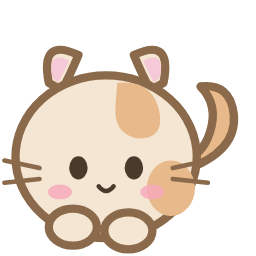
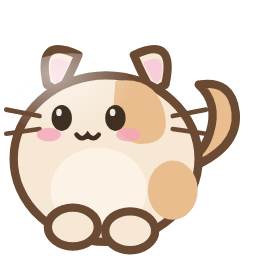
v1.3.0: visual polish pass + fix burger menu visibility
- mascot.js: added a soft belly highlight, a subtle radial head-shine
  gradient, and small white sparkle dots in her eyes, for a rounder,
  plusher, more expressive look. Deepened the outline color from #8a6a4a
  to #6b4a34 across the whole sprite (body + all props) for better
  contrast. Same original design otherwise -- cream/caramel calico, no
  stripes, solid tail. Eye-open elements changed from plain ellipses to
  <g> groups (pupil + sparkle) so the blink animation still applies
  correctly to both together.
- icon-art.html / icon-256.png / icon.png: regenerated to match the
  updated design for consistency across app icon, tray icon, taskbar.
- pet.html: burger button went from opacity:0.55 + translucent
  background (essentially invisible against busy wallpapers) to a solid
  92%-alpha background with a visible border and drop shadow, so it's
  easy to spot regardless of what's behind the overlay.
- Verified via a full 23-state render grid (idle through birthday) with
  error-catching per state -- no rendering errors, all states render
  correctly with the new eye/body structure.

diff --git a/mascot.js b/mascot.js
@@ -1,52 +1,69 @@
 // mascot.js — Mochi, an original animated desktop cat.
 // Pure inline SVG + CSS keyframes (mascot.css). No raster images, no network
-// calls, fully offline. Used identically by widget.html / walker.html / buddy.html.
+// calls, fully offline. Used by pet.html.
 
 const MOCHI_SVG = `
 <svg class="mochi-sprite" viewBox="0 0 320 280" xmlns="http://www.w3.org/2000/svg">
+  <defs>
+    <radialGradient id="mochi-shine" cx="35%" cy="25%" r="65%">
+      <stop offset="0%" stop-color="#ffffff" stop-opacity=".55"/>
+      <stop offset="100%" stop-color="#ffffff" stop-opacity="0"/>
+    </radialGradient>
+  </defs>
+
   <g class="mochi-tail">
-    <path d="M244 190 Q300 170 296 130 Q292 96 260 100 Q280 120 270 150 Q262 176 236 182 Z"
-          fill="#e8b98a" stroke="#8a6a4a" stroke-width="6" stroke-linejoin="round"/>
+    <path d="M244 190 Q302 168 298 128 Q294 92 258 98 Q280 118 270 150 Q262 178 234 184 Z"
+          fill="#eabd8e" stroke="#6b4a34" stroke-width="7" stroke-linejoin="round"/>
   </g>
 
   <g class="mochi-body-group">
     <g class="mochi-ear l">
-      <path d="M96 96 Q86 46 128 66 Q118 90 110 104 Z" fill="#f5e6d3" stroke="#8a6a4a" stroke-width="6" stroke-linejoin="round"/>
-      <path d="M100 90 Q94 60 118 72 Q112 86 106 96 Z" fill="#f6c9d8"/>
+      <path d="M94 98 Q82 44 128 66 Q117 92 108 106 Z" fill="#f7e8d6" stroke="#6b4a34" stroke-width="7" stroke-linejoin="round"/>
+      <path d="M99 91 Q92 60 118 74 Q111 89 104 97 Z" fill="#f8cdd9"/>
     </g>
     <g class="mochi-ear r">
-      <path d="M220 96 Q230 46 188 66 Q198 90 206 104 Z" fill="#f5e6d3" stroke="#8a6a4a" stroke-width="6" stroke-linejoin="round"/>
-      <path d="M216 90 Q222 60 198 72 Q204 86 210 96 Z" fill="#f6c9d8"/>
+      <path d="M222 98 Q234 44 188 66 Q199 92 208 106 Z" fill="#f7e8d6" stroke="#6b4a34" stroke-width="7" stroke-linejoin="round"/>
+      <path d="M217 91 Q224 60 198 74 Q205 89 212 97 Z" fill="#f8cdd9"/>
     </g>
 
-    <ellipse cx="158" cy="176" rx="98" ry="88" fill="#f5e6d3" stroke="#8a6a4a" stroke-width="6"/>
-    <path d="M170 96 Q210 92 216 130 Q220 158 190 156 Q166 150 168 122 Z" fill="#e8b98a"/>
-    <ellipse cx="228" cy="210" rx="26" ry="30" fill="#e8b98a"/>
+    <ellipse cx="158" cy="178" rx="100" ry="90" fill="#f7e8d6" stroke="#6b4a34" stroke-width="7"/>
+    <path d="M168 94 Q214 88 222 132 Q227 164 192 162 Q164 155 166 120 Z" fill="#eabd8e"/>
+    <ellipse cx="230" cy="212" rx="27" ry="32" fill="#eabd8e"/>
 
-    <g class="mochi-leg l"><ellipse cx="122" cy="252" rx="26" ry="20" fill="#f5e6d3" stroke="#8a6a4a" stroke-width="6"/></g>
-    <g class="mochi-leg r"><ellipse cx="182" cy="256" rx="26" ry="20" fill="#f5e6d3" stroke="#8a6a4a" stroke-width="6"/></g>
+    <!-- soft belly highlight + head shine, for a plush, rounded feel -->
+    <ellipse cx="150" cy="212" rx="52" ry="46" fill="#fff8ee" opacity=".65"/>
+    <ellipse cx="120" cy="110" rx="70" ry="46" fill="url(#mochi-shine)"/>
 
-    <g stroke="#8a6a4a" stroke-width="3.5" stroke-linecap="round">
-      <line x1="86" y1="188" x2="48" y2="180"/>
-      <line x1="86" y1="200" x2="48" y2="204"/>
-      <line x1="230" y1="188" x2="268" y2="180"/>
-      <line x1="230" y1="200" x2="268" y2="204"/>
+    <g class="mochi-leg l"><ellipse cx="122" cy="252" rx="27" ry="21" fill="#f7e8d6" stroke="#6b4a34" stroke-width="7"/></g>
+    <g class="mochi-leg r"><ellipse cx="184" cy="256" rx="27" ry="21" fill="#f7e8d6" stroke="#6b4a34" stroke-width="7"/></g>
+
+    <g stroke="#6b4a34" stroke-width="4" stroke-linecap="round">
+      <line x1="86" y1="132" x2="50" y2="125"/>
+      <line x1="86" y1="146" x2="50" y2="151"/>
+      <line x1="230" y1="132" x2="266" y2="125"/>
+      <line x1="230" y1="146" x2="266" y2="151"/>
     </g>
 
-    <ellipse class="mochi-eye-open l" cx="128" cy="188" rx="10" ry="12.5" fill="#4a3a2c"/>
-    <ellipse class="mochi-eye-open r" cx="188" cy="188" rx="10" ry="12.5" fill="#4a3a2c"/>
-    <path class="mochi-eye-closed l" d="M116 189 q12 10 24 0" stroke="#4a3a2c" stroke-width="4" stroke-linecap="round" fill="none"/>
-    <path class="mochi-eye-closed r" d="M176 189 q12 10 24 0" stroke="#4a3a2c" stroke-width="4" stroke-linecap="round" fill="none"/>
-    <path class="mochi-eye-half l" d="M118 186 q10 6 20 0" stroke="#4a3a2c" stroke-width="4" stroke-linecap="round" fill="none"/>
-    <path class="mochi-eye-half r" d="M178 186 q10 6 20 0" stroke="#4a3a2c" stroke-width="4" stroke-linecap="round" fill="none"/>
+    <g class="mochi-eye-open l">
+      <ellipse cx="110" cy="134" rx="11" ry="14" fill="#3f2f22"/>
+      <ellipse cx="107" cy="128" rx="3" ry="4" fill="#fff" opacity=".9"/>
+    </g>
+    <g class="mochi-eye-open r">
+      <ellipse cx="168" cy="134" rx="11" ry="14" fill="#3f2f22"/>
+      <ellipse cx="165" cy="128" rx="3" ry="4" fill="#fff" opacity=".9"/>
+    </g>
+    <path class="mochi-eye-closed l" d="M98 135 q12 10 24 0" stroke="#3f2f22" stroke-width="4.5" stroke-linecap="round" fill="none"/>
+    <path class="mochi-eye-closed r" d="M156 135 q12 10 24 0" stroke="#3f2f22" stroke-width="4.5" stroke-linecap="round" fill="none"/>
+    <path class="mochi-eye-half l" d="M100 132 q10 6 20 0" stroke="#3f2f22" stroke-width="4.5" stroke-linecap="round" fill="none"/>
+    <path class="mochi-eye-half r" d="M158 132 q10 6 20 0" stroke="#3f2f22" stroke-width="4.5" stroke-linecap="round" fill="none"/>
 
-    <path class="mochi-mouth-idle" d="M150 208 Q158 218 166 208" stroke="#4a3a2c" stroke-width="4.5" stroke-linecap="round" fill="none"/>
-    <ellipse class="mochi-mouth-eat" cx="158" cy="212" rx="9" ry="11" fill="#4a3a2c"/>
-    <ellipse class="mochi-mouth-laugh" cx="158" cy="212" rx="16" ry="13" fill="#4a3a2c"/>
-    <path class="mochi-mouth-laugh" d="M148 210 Q158 220 168 210" stroke="#f5e6d3" stroke-width="3" stroke-linecap="round" fill="none"/>
+    <path class="mochi-mouth-idle" d="M126 152 q6 8 12 0 q6 8 12 0" stroke="#3f2f22" stroke-width="5" stroke-linecap="round" fill="none"/>
+    <ellipse class="mochi-mouth-eat" cx="139" cy="156" rx="9" ry="11" fill="#3f2f22"/>
+    <ellipse class="mochi-mouth-laugh" cx="139" cy="156" rx="16" ry="13" fill="#3f2f22"/>
+    <path class="mochi-mouth-laugh" d="M129 154 Q139 164 149 154" stroke="#f7e8d6" stroke-width="3" stroke-linecap="round" fill="none"/>
 
-    <ellipse class="mochi-blush l" cx="108" cy="214" rx="13" ry="8" fill="#f6a8bc" opacity=".8"/>
-    <ellipse class="mochi-blush r" cx="208" cy="214" rx="13" ry="8" fill="#f6a8bc" opacity=".8"/>
+    <ellipse class="mochi-blush l" cx="96" cy="152" rx="13" ry="7.5" fill="#f4a5bc" opacity=".8"/>
+    <ellipse class="mochi-blush r" cx="182" cy="152" rx="13" ry="7.5" fill="#f4a5bc" opacity=".8"/>
   </g>
 
   <g class="mochi-stars" transform="translate(158,60)">
@@ -65,40 +82,40 @@ const MOCHI_SVG = `
   </g>
 
   <g class="mochi-headphones">
-    <path d="M94 100 Q158 40 222 100" stroke="#8a6a4a" stroke-width="8" fill="none" stroke-linecap="round"/>
-    <ellipse cx="94" cy="112" rx="16" ry="20" fill="#f7b0c6" stroke="#8a6a4a" stroke-width="4"/>
-    <ellipse cx="222" cy="112" rx="16" ry="20" fill="#f7b0c6" stroke="#8a6a4a" stroke-width="4"/>
-    <text class="mochi-note" x="250" y="70" font-size="22" fill="#8a6a4a">♪</text>
+    <path d="M94 100 Q158 40 222 100" stroke="#6b4a34" stroke-width="8" fill="none" stroke-linecap="round"/>
+    <ellipse cx="94" cy="112" rx="16" ry="20" fill="#f7b0c6" stroke="#6b4a34" stroke-width="4"/>
+    <ellipse cx="222" cy="112" rx="16" ry="20" fill="#f7b0c6" stroke="#6b4a34" stroke-width="4"/>
+    <text class="mochi-note" x="250" y="70" font-size="22" fill="#6b4a34">♪</text>
   </g>
 
   <g class="mochi-book" transform="translate(66,232)">
-    <path d="M0 0 Q22 -10 44 0 L44 24 Q22 14 0 24 Z" fill="#a9d4ff" stroke="#8a6a4a" stroke-width="3" stroke-linejoin="round"/>
-    <path d="M44 0 Q66 -10 88 0 L88 24 Q66 14 44 24 Z" fill="#f7b0c6" stroke="#8a6a4a" stroke-width="3" stroke-linejoin="round"/>
-    <path class="mochi-page" d="M44 0 Q30 -8 16 -2 L16 20 Q30 14 44 22 Z" fill="#fff9ef" stroke="#8a6a4a" stroke-width="2"/>
+    <path d="M0 0 Q22 -10 44 0 L44 24 Q22 14 0 24 Z" fill="#a9d4ff" stroke="#6b4a34" stroke-width="3" stroke-linejoin="round"/>
+    <path d="M44 0 Q66 -10 88 0 L88 24 Q66 14 44 24 Z" fill="#f7b0c6" stroke="#6b4a34" stroke-width="3" stroke-linejoin="round"/>
+    <path class="mochi-page" d="M44 0 Q30 -8 16 -2 L16 20 Q30 14 44 22 Z" fill="#fff9ef" stroke="#6b4a34" stroke-width="2"/>
   </g>
 
   <g class="mochi-easel" transform="translate(40,190)">
-    <path d="M4 74 L34 8 L64 74" stroke="#8a6a4a" stroke-width="5" fill="none" stroke-linecap="round"/>
-    <line x1="14" y1="52" x2="54" y2="52" stroke="#8a6a4a" stroke-width="5" stroke-linecap="round"/>
-    <rect x="10" y="16" width="48" height="38" rx="3" fill="#fff9ef" stroke="#8a6a4a" stroke-width="4"/>
+    <path d="M4 74 L34 8 L64 74" stroke="#6b4a34" stroke-width="5" fill="none" stroke-linecap="round"/>
+    <line x1="14" y1="52" x2="54" y2="52" stroke="#6b4a34" stroke-width="5" stroke-linecap="round"/>
+    <rect x="10" y="16" width="48" height="38" rx="3" fill="#fff9ef" stroke="#6b4a34" stroke-width="4"/>
     <circle class="mochi-dab" cx="26" cy="32" r="6" fill="#f7b0c6"/>
     <circle class="mochi-dab" cx="42" cy="40" r="5" fill="#a9d4ff"/>
   </g>
 
   <g class="mochi-scarf" transform="translate(108,190)">
-    <path d="M0 0 Q50 20 100 0 L100 16 Q50 36 0 16 Z" fill="#f7b0c6" stroke="#8a6a4a" stroke-width="4" stroke-linejoin="round"/>
-    <rect x="60" y="12" width="16" height="34" rx="4" fill="#f7b0c6" stroke="#8a6a4a" stroke-width="4"/>
+    <path d="M0 0 Q50 20 100 0 L100 16 Q50 36 0 16 Z" fill="#f7b0c6" stroke="#6b4a34" stroke-width="4" stroke-linejoin="round"/>
+    <rect x="60" y="12" width="16" height="34" rx="4" fill="#f7b0c6" stroke="#6b4a34" stroke-width="4"/>
   </g>
 
   <g class="mochi-shades" transform="translate(158,188)">
-    <rect x="-34" y="-11" width="26" height="20" rx="7" fill="#4a3a2c" stroke="#4a3a2c"/>
-    <rect x="8" y="-11" width="26" height="20" rx="7" fill="#4a3a2c" stroke="#4a3a2c"/>
-    <line x1="-8" y1="-4" x2="8" y2="-4" stroke="#4a3a2c" stroke-width="3"/>
+    <rect x="-34" y="-11" width="26" height="20" rx="7" fill="#3f2f22" stroke="#3f2f22"/>
+    <rect x="8" y="-11" width="26" height="20" rx="7" fill="#3f2f22" stroke="#3f2f22"/>
+    <line x1="-8" y1="-4" x2="8" y2="-4" stroke="#3f2f22" stroke-width="3"/>
   </g>
 
   <g class="mochi-partyhat" transform="translate(158,44)">
-    <path d="M-20 40 L0 -26 L20 40 Z" fill="#a9d4ff" stroke="#8a6a4a" stroke-width="4" stroke-linejoin="round"/>
-    <circle cx="0" cy="-26" r="6" fill="#f7b0c6" stroke="#8a6a4a" stroke-width="3"/>
+    <path d="M-20 40 L0 -26 L20 40 Z" fill="#a9d4ff" stroke="#6b4a34" stroke-width="4" stroke-linejoin="round"/>
+    <circle cx="0" cy="-26" r="6" fill="#f7b0c6" stroke="#6b4a34" stroke-width="3"/>
     <circle cx="-8" cy="14" r="4" fill="#fff9ef"/><circle cx="6" cy="0" r="4" fill="#f7b0c6"/>
   </g>
   <g class="mochi-confetti">
@@ -108,31 +125,31 @@ const MOCHI_SVG = `
   </g>
 
   <g class="mochi-balloons" transform="translate(158,60)">
-    <line x1="-4" y1="18" x2="-30" y2="70" stroke="#8a6a4a" stroke-width="2.5"/>
-    <line x1="4" y1="18" x2="6" y2="72" stroke="#8a6a4a" stroke-width="2.5"/>
-    <line x1="12" y1="18" x2="34" y2="70" stroke="#8a6a4a" stroke-width="2.5"/>
-    <g class="mochi-balloon b1"><ellipse cx="-30" cy="0" rx="20" ry="24" fill="#f7b0c6" stroke="#8a6a4a" stroke-width="3"/></g>
-    <g class="mochi-balloon b2"><ellipse cx="6" cy="-16" rx="22" ry="26" fill="#a9d4ff" stroke="#8a6a4a" stroke-width="3"/></g>
-    <g class="mochi-balloon b3"><ellipse cx="34" cy="0" rx="20" ry="24" fill="#c9f0c0" stroke="#8a6a4a" stroke-width="3"/></g>
+    <line x1="-4" y1="18" x2="-30" y2="70" stroke="#6b4a34" stroke-width="2.5"/>
+    <line x1="4" y1="18" x2="6" y2="72" stroke="#6b4a34" stroke-width="2.5"/>
+    <line x1="12" y1="18" x2="34" y2="70" stroke="#6b4a34" stroke-width="2.5"/>
+    <g class="mochi-balloon b1"><ellipse cx="-30" cy="0" rx="20" ry="24" fill="#f7b0c6" stroke="#6b4a34" stroke-width="3"/></g>
+    <g class="mochi-balloon b2"><ellipse cx="6" cy="-16" rx="22" ry="26" fill="#a9d4ff" stroke="#6b4a34" stroke-width="3"/></g>
+    <g class="mochi-balloon b3"><ellipse cx="34" cy="0" rx="20" ry="24" fill="#c9f0c0" stroke="#6b4a34" stroke-width="3"/></g>
   </g>
 
   <g class="mochi-toy" transform="translate(46,236)">
     <g class="mochi-toy-inner">
-      <circle r="16" fill="#f7b0c6" stroke="#8a6a4a" stroke-width="3"/>
-      <path d="M-11 -4 Q0 6 11 -4" stroke="#8a6a4a" stroke-width="2" fill="none"/>
-      <path d="M-9 4 Q0 12 9 4" stroke="#8a6a4a" stroke-width="2" fill="none"/>
+      <circle r="16" fill="#f7b0c6" stroke="#6b4a34" stroke-width="3"/>
+      <path d="M-11 -4 Q0 6 11 -4" stroke="#6b4a34" stroke-width="2" fill="none"/>
+      <path d="M-9 4 Q0 12 9 4" stroke="#6b4a34" stroke-width="2" fill="none"/>
     </g>
   </g>
 
   <g class="mochi-bowl" transform="translate(118,238)">
     <g class="mochi-bowl-inner">
       <ellipse cx="40" cy="18" rx="34" ry="10" fill="#c98a4a"/>
-      <path d="M6 18 Q6 40 40 40 Q74 40 74 18 Z" fill="#e8a35f" stroke="#8a6a4a" stroke-width="3"/>
-      <circle cx="30" cy="14" r="5" fill="#e8b98a"/><circle cx="46" cy="12" r="5" fill="#f5e6d3"/><circle cx="40" cy="20" r="5" fill="#e8b98a"/>
+      <path d="M6 18 Q6 40 40 40 Q74 40 74 18 Z" fill="#e8a35f" stroke="#6b4a34" stroke-width="3"/>
+      <circle cx="30" cy="14" r="5" fill="#eabd8e"/><circle cx="46" cy="12" r="5" fill="#f7e8d6"/><circle cx="40" cy="20" r="5" fill="#eabd8e"/>
     </g>
   </g>
 
-  <g class="mochi-zzz" fill="#8a6a4a" font-family="Comic Sans MS, cursive" font-weight="700">
+  <g class="mochi-zzz" fill="#6b4a34" font-family="Comic Sans MS, cursive" font-weight="700">
     <text class="z1" x="212" y="118" font-size="20">z</text>
     <text class="z2" x="226" y="102" font-size="16">z</text>
     <text class="z3" x="238" y="88" font-size="12">z</text>

diff --git a/icon-art.html b/icon-art.html
@@ -3,31 +3,42 @@
 <body>
 <!-- Source art for the Mochi app icon. Rendered to icon-256.png / icon.png
      via headless Edge with a transparent background. Original design —
-     cream body, caramel calico patches, rounded ears, fluffy solid tail. -->
+     cream body, caramel calico patches, rounded ears, fluffy solid tail,
+     soft belly/head shading and eye sparkle for a polished, plush look. -->
 <svg width="256" height="256" viewBox="0 0 256 256" xmlns="http://www.w3.org/2000/svg">
+  <defs>
+    <radialGradient id="icon-shine" cx="35%" cy="25%" r="65%">
+      <stop offset="0%" stop-color="#ffffff" stop-opacity=".55"/>
+      <stop offset="100%" stop-color="#ffffff" stop-opacity="0"/>
+    </radialGradient>
+  </defs>
   <g transform="translate(-40,-6) scale(0.925)">
-    <path d="M244 190 Q300 170 296 130 Q292 96 260 100 Q280 120 270 150 Q262 176 236 182 Z"
-          fill="#e8b98a" stroke="#8a6a4a" stroke-width="9" stroke-linejoin="round"/>
-    <path d="M96 96 Q86 46 128 66 Q118 90 110 104 Z" fill="#f5e6d3" stroke="#8a6a4a" stroke-width="9" stroke-linejoin="round"/>
-    <path d="M220 96 Q230 46 188 66 Q198 90 206 104 Z" fill="#f5e6d3" stroke="#8a6a4a" stroke-width="9" stroke-linejoin="round"/>
-    <path d="M100 90 Q94 60 118 72 Q112 86 106 96 Z" fill="#f6c9d8"/>
-    <path d="M216 90 Q222 60 198 72 Q204 86 210 96 Z" fill="#f6c9d8"/>
-    <ellipse cx="158" cy="176" rx="98" ry="88" fill="#f5e6d3" stroke="#8a6a4a" stroke-width="9"/>
-    <path d="M170 96 Q210 92 216 130 Q220 158 190 156 Q166 150 168 122 Z" fill="#e8b98a"/>
-    <ellipse cx="228" cy="210" rx="26" ry="30" fill="#e8b98a"/>
-    <ellipse cx="122" cy="252" rx="26" ry="20" fill="#f5e6d3" stroke="#8a6a4a" stroke-width="9"/>
-    <ellipse cx="182" cy="256" rx="26" ry="20" fill="#f5e6d3" stroke="#8a6a4a" stroke-width="9"/>
-    <g stroke="#8a6a4a" stroke-width="5" stroke-linecap="round">
-      <line x1="86" y1="188" x2="48" y2="180"/>
-      <line x1="86" y1="200" x2="48" y2="204"/>
-      <line x1="230" y1="188" x2="268" y2="180"/>
-      <line x1="230" y1="200" x2="268" y2="204"/>
+    <path d="M244 190 Q302 168 298 128 Q294 92 258 98 Q280 118 270 150 Q262 178 234 184 Z"
+          fill="#eabd8e" stroke="#6b4a34" stroke-width="9" stroke-linejoin="round"/>
+    <path d="M94 98 Q82 44 128 66 Q117 92 108 106 Z" fill="#f7e8d6" stroke="#6b4a34" stroke-width="9" stroke-linejoin="round"/>
+    <path d="M222 98 Q234 44 188 66 Q199 92 208 106 Z" fill="#f7e8d6" stroke="#6b4a34" stroke-width="9" stroke-linejoin="round"/>
+    <path d="M99 91 Q92 60 118 74 Q111 89 104 97 Z" fill="#f8cdd9"/>
+    <path d="M217 91 Q224 60 198 74 Q205 89 212 97 Z" fill="#f8cdd9"/>
+    <ellipse cx="158" cy="178" rx="100" ry="90" fill="#f7e8d6" stroke="#6b4a34" stroke-width="9"/>
+    <path d="M168 94 Q214 88 222 132 Q227 164 192 162 Q164 155 166 120 Z" fill="#eabd8e"/>
+    <ellipse cx="230" cy="212" rx="27" ry="32" fill="#eabd8e"/>
+    <ellipse cx="150" cy="212" rx="52" ry="46" fill="#fff8ee" opacity=".65"/>
+    <ellipse cx="120" cy="110" rx="70" ry="46" fill="url(#icon-shine)"/>
+    <ellipse cx="122" cy="252" rx="27" ry="21" fill="#f7e8d6" stroke="#6b4a34" stroke-width="9"/>
+    <ellipse cx="184" cy="256" rx="27" ry="21" fill="#f7e8d6" stroke="#6b4a34" stroke-width="9"/>
+    <g stroke="#6b4a34" stroke-width="5" stroke-linecap="round">
+      <line x1="86" y1="132" x2="50" y2="125"/>
+      <line x1="86" y1="146" x2="50" y2="151"/>
+      <line x1="230" y1="132" x2="266" y2="125"/>
+      <line x1="230" y1="146" x2="266" y2="151"/>
     </g>
-    <ellipse cx="128" cy="188" rx="10" ry="12.5" fill="#4a3a2c"/>
-    <ellipse cx="188" cy="188" rx="10" ry="12.5" fill="#4a3a2c"/>
-    <path d="M150 208 Q158 218 166 208" stroke="#4a3a2c" stroke-width="5" stroke-linecap="round" fill="none"/>
-    <ellipse cx="108" cy="214" rx="13" ry="8" fill="#f6a8bc" opacity=".8"/>
-    <ellipse cx="208" cy="214" rx="13" ry="8" fill="#f6a8bc" opacity=".8"/>
+    <ellipse cx="110" cy="134" rx="11" ry="14" fill="#3f2f22"/>
+    <ellipse cx="168" cy="134" rx="11" ry="14" fill="#3f2f22"/>
+    <ellipse cx="107" cy="128" rx="3" ry="4" fill="#fff" opacity=".9"/>
+    <ellipse cx="165" cy="128" rx="3" ry="4" fill="#fff" opacity=".9"/>
+    <path d="M126 152 q6 8 12 0 q6 8 12 0" stroke="#3f2f22" stroke-width="5" stroke-linecap="round" fill="none"/>
+    <ellipse cx="96" cy="152" rx="13" ry="7.5" fill="#f4a5bc" opacity=".8"/>
+    <ellipse cx="182" cy="152" rx="13" ry="7.5" fill="#f4a5bc" opacity=".8"/>
   </g>
 </svg>
 </body></html>

diff --git a/pet.html b/pet.html
@@ -24,14 +24,16 @@
     100% { opacity: 0; transform: translateY(-46px) scale(1.15) rotate(8deg); }
   }
 
-  /* ---- burger menu ---- */
+  /* ---- burger menu: solid enough to spot against any desktop background ---- */
   #burger {
-    position: absolute; top: 10px; left: 10px; width: 34px; height: 34px;
-    border-radius: 9px; background: rgba(60, 55, 75, 0.55); backdrop-filter: blur(6px);
+    position: absolute; top: 10px; left: 10px; width: 38px; height: 38px;
+    border-radius: 10px; background: rgba(45, 40, 60, 0.92);
+    border: 1.5px solid rgba(255,255,255,0.25);
+    box-shadow: 0 3px 10px rgba(0,0,0,0.35);
     display: flex; align-items: center; justify-content: center; cursor: pointer;
-    font-size: 16px; color: #fff; opacity: 0.55; transition: opacity .15s, background .15s;
+    font-size: 18px; color: #fff; transition: background .15s, transform .1s;
   }
-  #burger:hover { opacity: 1; background: rgba(60, 55, 75, 0.85); }
+  #burger:hover { background: rgba(70, 60, 90, 0.96); transform: scale(1.05); }
   #menu {
     display: none; position: absolute; top: 50px; left: 10px; width: 190px;
     background: rgba(255,255,255,0.97); border-radius: 12px;

diff --git a/README.md b/README.md
@@ -4,6 +4,14 @@ A small desktop companion cat you can publish for real. This is the **rebranded,
 fully original, 100% offline** sibling of the `pusheen-app` fan project one
 folder up — built specifically to be shareable without any IP concerns.
 
+**v1.3.0:** visual polish pass — Mochi now has a soft belly highlight, a
+subtle head-shine gradient, and sparkle dots in her eyes for a rounder,
+plusher, more expressive look (same original design: cream/caramel calico,
+no stripes, solid tail — just executed with more depth and finish). Outline
+color deepened slightly for better contrast. The burger menu also went from
+a faint 55%-opacity fade to a solid, bordered, drop-shadowed button so it's
+easy to spot against any desktop background.
+
 **v1.2.0:** simplified down to one window and one experience. The app now
 opens straight into **Walking** mode (no separate widget/tray dance needed
 to see her), with a small **☰ burger menu** on the overlay itself to switch